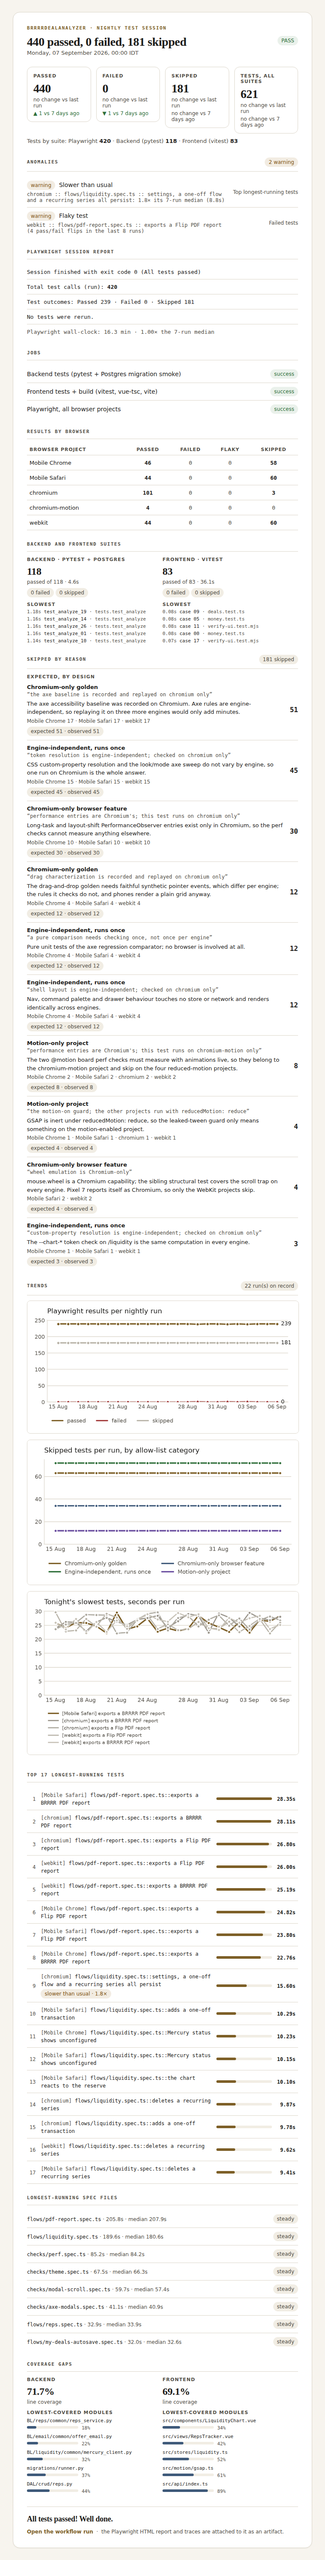
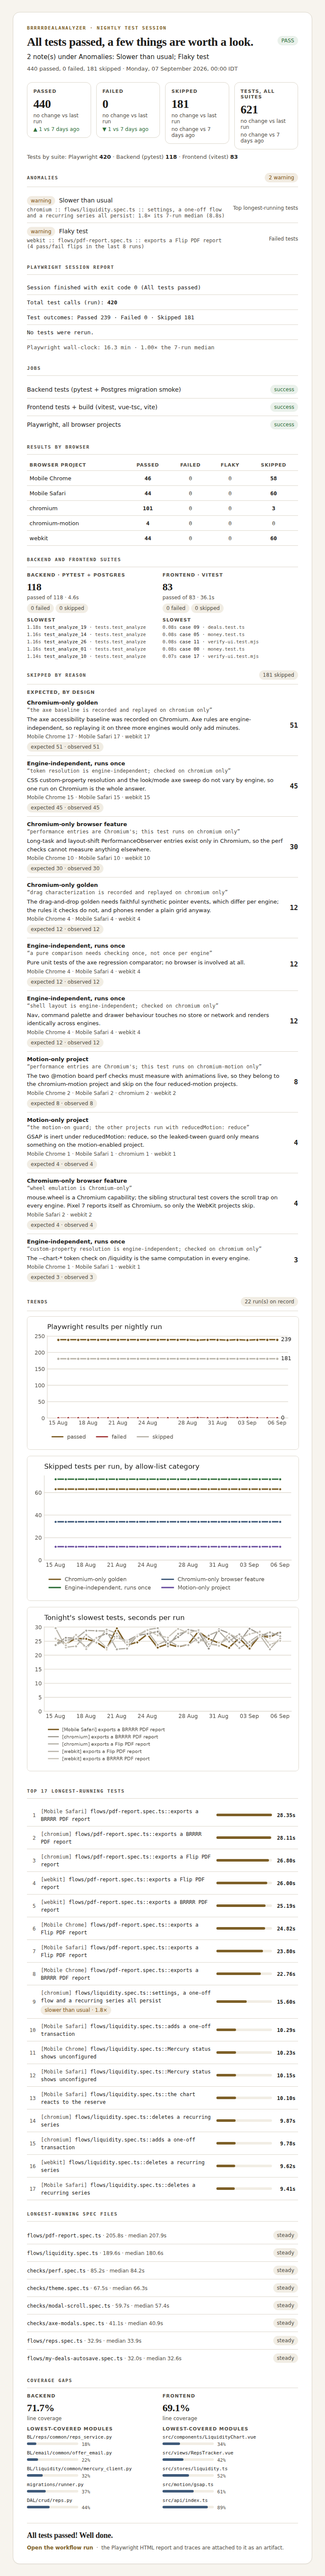
Nightly mail: open with the verdict in words
The first line now says what happened before any number: "All good
tonight.", "All tests passed, a few things are worth a look." or
"Something failed tonight.", followed by one sentence of detail (what is
red, the critical findings). The counts and the date move to the line
under it; the subject carries the same phrase.

Claude-Session: https://claude.ai/code/session_019tfM8BG2Fg9UuipToNTgk2

diff --git a/.github/scripts/nightly/tests/test_nightly.py b/.github/scripts/nightly/tests/test_nightly.py
@@ -240,6 +240,19 @@ class Anomalies(unittest.TestCase):
         prev["playwright"]["stats"]["expected"] = 8
         self.assertEqual(anomalies.tile_deltas(tonight, prev, None)["passed"]["vs_prev"]["word"], "up 2")
 
+    def test_plain_verdict_reads_in_words(self):
+        totals = {"total": 1906, "failed": 0}
+        ok = anomalies.plain_verdict("PASS", totals, [], [("Playwright", "success")], 5)
+        self.assertEqual(ok["title"], "All good tonight.")
+        self.assertIn("1906 tests passed", ok["detail"])
+        warn = anomalies.plain_verdict("PASS", totals, [{"severity": "warning", "title": "Flaky test"}], [], 0)
+        self.assertIn("worth a look", warn["title"])
+        bad = anomalies.plain_verdict("FAIL", {"total": 1906, "failed": 3},
+                                      [{"severity": "critical", "title": "First-time failure"}],
+                                      [("Playwright", "failure"), ("Backend", "success")], 0)
+        self.assertEqual(bad["title"], "Something failed tonight.")
+        self.assertIn("3 failed test(s)", bad["detail"]); self.assertIn("red: Playwright", bad["detail"])
+
     def test_suite_totals_add_every_suite(self):
         rec = self._rec(8, {"a": 1000}, failed=["b"], flaky=["c"])
         rec["playwright"]["stats"].update({"flaky": 1, "skipped": 181})
@@ -309,6 +322,7 @@ class EndToEnd(unittest.TestCase):
         self.assertGreater(totals["total"], totals["parts"]["playwright"]["total"])
         self.assertIn(f"{totals['passed']} passed, {totals['failed']} failed, {totals['skipped']} skipped", text)
         self.assertIn("Tests by suite: Playwright ", text)
+        self.assertTrue(text.splitlines()[1].startswith("Something failed tonight."), text.splitlines()[:3])
         record = json.loads(self.record.read_text())
         self.assertEqual(record["v"], 1)
         self.assertEqual(record["playwright"]["stats"]["unexpected"], 2)

diff --git a/.github/scripts/nightly/anomalies.py b/.github/scripts/nightly/anomalies.py
@@ -65,6 +65,33 @@ def suite_totals(record: dict) -> dict:
     return totals
 
 
+def plain_verdict(verdict: str, totals: dict, findings: list[dict], jobs: list[tuple[str, str]],
+                  history_count: int) -> dict:
+    """The first line of the mail, in words: what happened tonight and whether anything needs a look."""
+    critical = [f for f in findings if f["severity"] == "critical"]
+    if verdict == "PASS" and not findings:
+        title = "All good tonight."
+        detail = (f"Every one of the {totals['total']} tests passed or was skipped for a known reason"
+                  + (f", and nothing moved against the last {history_count} run(s)." if history_count else "."))
+    elif verdict == "PASS":
+        title = "All tests passed, a few things are worth a look."
+        titles = "; ".join(f["title"] for f in findings[:3]) + (" …" if len(findings) > 3 else "")
+        detail = f"{len(findings)} note(s) under Anomalies: {titles}"
+    else:
+        failed_jobs = [label for label, outcome in jobs if outcome != "success"]
+        title = "Something failed tonight."
+        bits = []
+        if totals["failed"]:
+            bits.append(f"{totals['failed']} failed test(s)")
+        if failed_jobs:
+            bits.append("red: " + ", ".join(failed_jobs))
+        if critical:
+            bits.append(f"{len(critical)} critical finding(s): " + "; ".join(f["title"] for f in critical[:3])
+                        + (" …" if len(critical) > 3 else ""))
+        detail = " · ".join(bits) or "A job failed before it produced a report; see Jobs below."
+    return {"title": title, "detail": detail}
+
+
 def tile_deltas(record: dict, prev: dict | None, week: dict | None) -> dict:
     """Tile deltas over the combined totals of every suite (see ``suite_totals``)."""
     cur = suite_totals(record)

diff --git a/.github/scripts/nightly/main.py b/.github/scripts/nightly/main.py
@@ -133,10 +133,12 @@ def build_context(args: argparse.Namespace) -> dict:
                                  cov_backend, cov_frontend, "", malformed, allowlist_error)
     analysis["deltas"] = anomalies.tile_deltas(record, prev, week)
 
+    bottom_line = anomalies.plain_verdict(verdict, totals, analysis["findings"], jobs, len(comparable))
+
     chart_records = comparable + [record]
     slow_keys = [t["key"] for t in summary["top"][:5]]
     return {
-        "verdict": verdict, "headline": headline, "when": when_in_israel(now), "now": now,
+        "verdict": verdict, "headline": headline, "bottom_line": bottom_line, "when": when_in_israel(now), "now": now,
         "jobs": jobs, "e2e_outcome": e2e_outcome, "exit_code": exit_code, "run_url": env("RUN_URL", ""),
         "summary": summary, "totals": totals,
         "junit": {"backend": backend, "frontend": frontend},
@@ -219,7 +221,8 @@ def main(argv: list[str]) -> int:
 
     today = ctx["now"].strftime("%Y-%m-%d")
     message = EmailMessage()
-    message["Subject"] = f"[BrrrrDealAnalyzer] Nightly {ctx['verdict']} · {ctx['headline']} · {today}"
+    message["Subject"] = (f"[BrrrrDealAnalyzer] Nightly {ctx['verdict']}: {ctx['bottom_line']['title'].rstrip('.')} · "
+                          f"{ctx['headline']} · {today}")
     message["From"] = username
     message["To"] = os.environ.get("MAIL_TO", username)
     message.set_content(text_body)

diff --git a/.github/scripts/nightly/render_html.py b/.github/scripts/nightly/render_html.py
@@ -66,9 +66,10 @@ def render_html(ctx: dict, image_cids: dict[str, str]) -> str:
         f'<tr><td style="padding:30px 32px 8px 32px;">'
         f'{T.eyebrow("BrrrrDealAnalyzer · Nightly test session")}'
         f'<table role="presentation" width="100%" cellpadding="0" cellspacing="0"><tr>'
-        f'<td style="padding-top:10px;">{T.display(e(ctx["headline"]), 28, 600)}</td>'
+        f'<td style="padding-top:10px;">{T.display(e(ctx["bottom_line"]["title"]), 28, 600)}</td>'
         f'<td align="right" valign="top" style="padding-top:12px;">{verdict_pill}</td></tr></table>'
-        f'{T.body_text(e(ctx["when"]), 13, T.MUTED)}'
+        f'<div style="margin-top:8px;">{T.body_text(e(ctx["bottom_line"]["detail"]), 15)}</div>'
+        f'<div style="margin-top:6px;">{T.body_text(e(ctx["headline"]) + " · " + e(ctx["when"]), 13, T.MUTED)}</div>'
         f'</td></tr>'
     )
 

diff --git a/.github/scripts/nightly/render_text.py b/.github/scripts/nightly/render_text.py
@@ -14,6 +14,9 @@ def render_text(ctx: dict) -> str:
     a = ctx["analysis"]
     lines = [
         "=" * 44,
+        ctx["bottom_line"]["title"],
+        ctx["bottom_line"]["detail"],
+        "",
         f"BrrrrDealAnalyzer nightly test session: {ctx['verdict']} - {ctx['headline']}",
         ctx["when"],
         "=" * 44,

diff --git a/tasks/todo.md b/tasks/todo.md
@@ -219,3 +219,5 @@ fields). The subject, headline and four tiles use the combined totals; a "Tests 
 the tiles shows the split; the Playwright-only section is titled "Playwright session report" and its
 "Total test calls (run)" line is unchanged. 20 unit tests pass; previews and `docs/nightly` screenshots
 re-rendered (fixtures: 440 passed / 181 skipped / 621 total on the PASS mail).
+
+- [x] **H6** (20 min) — First line in words: `anomalies.plain_verdict` gives "All good tonight." / "All tests passed, a few things are worth a look." / "Something failed tonight." with a one-sentence detail; it heads the HTML, the text body and the subject. Numbers moved to the line under it.
